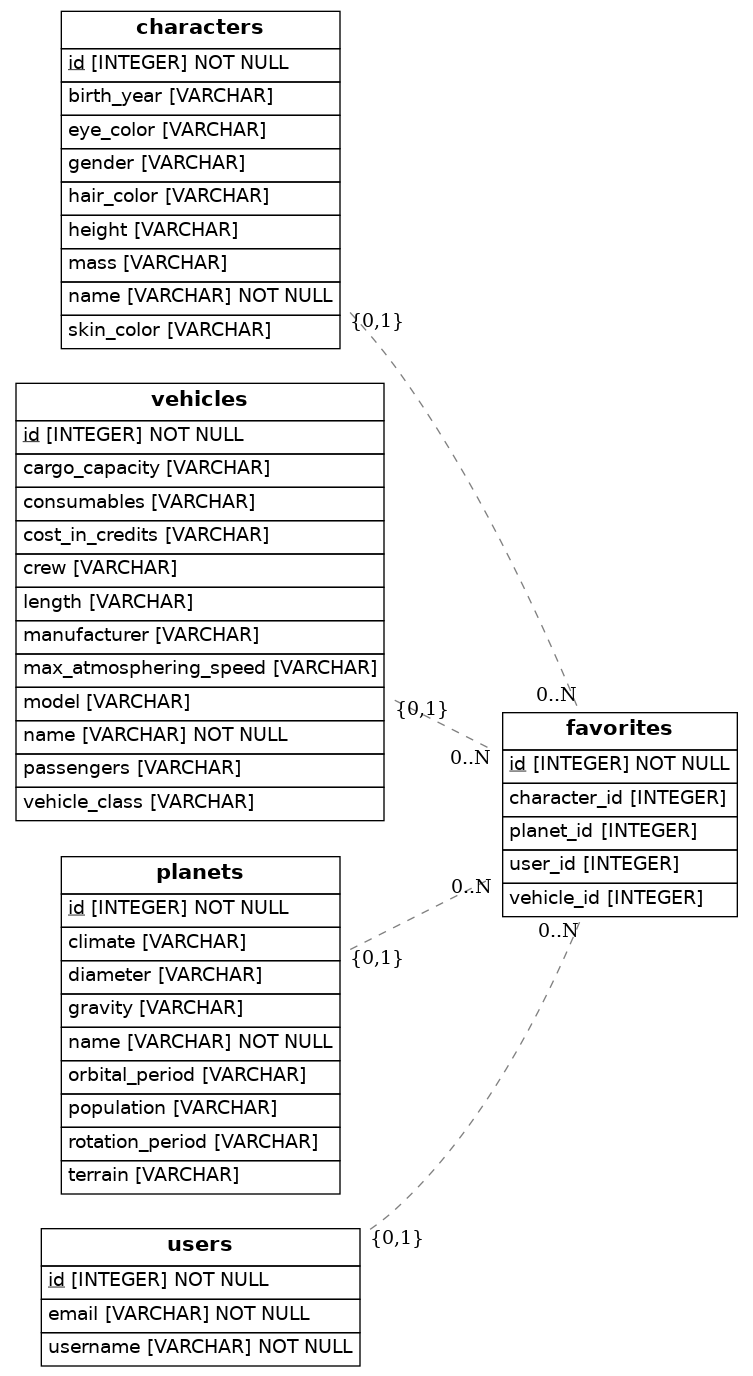
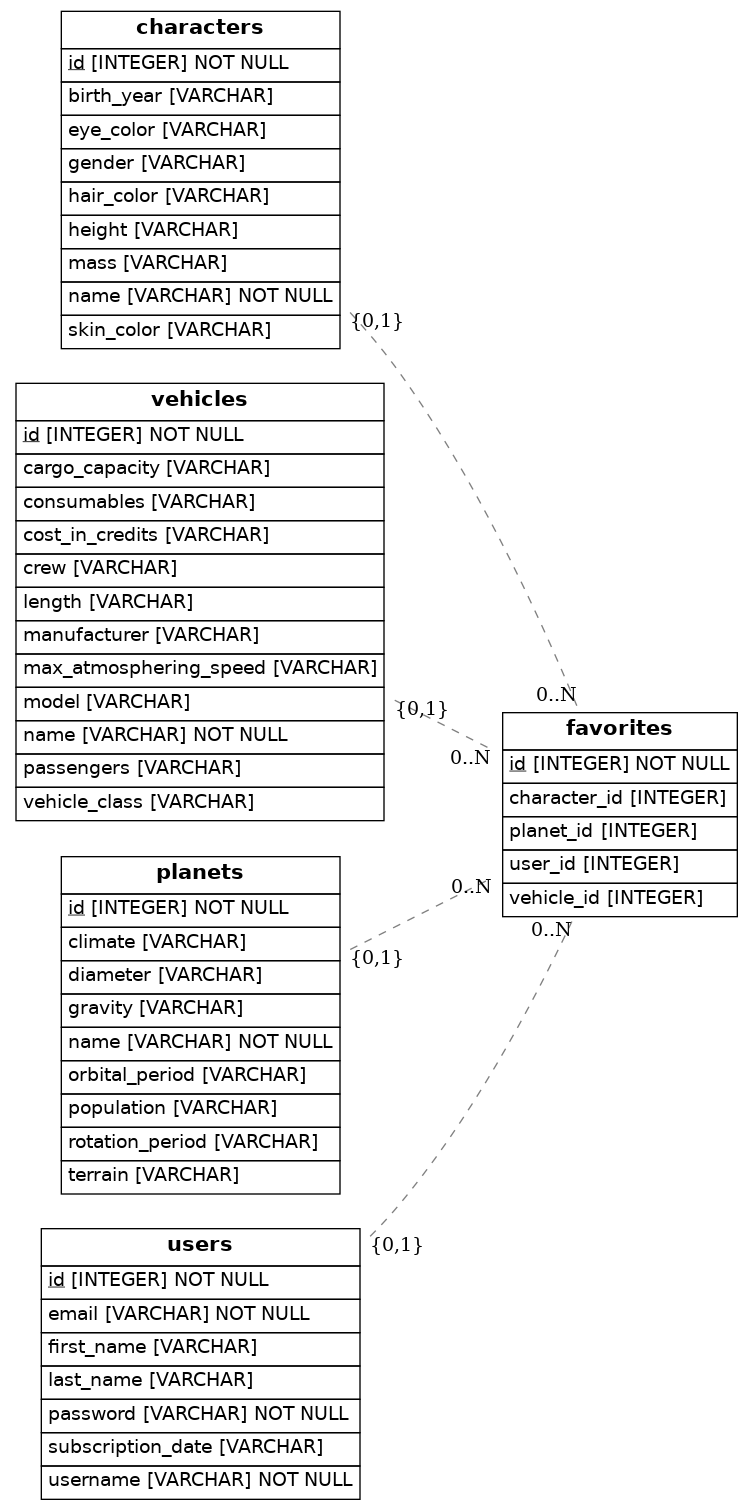
updating user

diff --git a/src/models.py b/src/models.py
@@ -7,6 +7,34 @@ from eralchemy2 import render_er
 
 Base = declarative_base()
 
+class User(Base):
+    __tablename__ = 'users'
+    
+    id = Column(Integer, primary_key=True)
+    username = Column(String, unique=True, nullable=False)
+    email = Column(String, unique=True, nullable=False)
+    password = Column(String, nullable=False)
+    first_name = Column(String)
+    last_name = Column(String)
+    subscription_date = Column(String) 
+
+    favorites = relationship("Favorite", back_populates="user")
+
+class Favorite(Base):
+    __tablename__ = 'favorites'
+
+    id = Column(Integer, primary_key=True)
+    user_id = Column(Integer, ForeignKey('users.id'))
+    character_id = Column(Integer, ForeignKey('characters.id'))
+    vehicle_id = Column(Integer, ForeignKey('vehicles.id'))
+    planet_id = Column(Integer, ForeignKey('planets.id'))
+
+    user = relationship("User", back_populates="favorites")
+    character = relationship("Character")
+    vehicle = relationship("Vehicle")
+    planet = relationship("Planet")
+
+
 class Character(Base):
     __tablename__ = 'characters'
     
@@ -55,31 +83,6 @@ class Planet(Base):
     population = Column(String)
 
     favorites = relationship("Favorite", back_populates="planet")
-
-
-class User(Base):
-    __tablename__ = 'users'
-    
-    id = Column(Integer, primary_key=True)
-    username = Column(String, unique=True, nullable=False)
-    email = Column(String, unique=True, nullable=False)
-
-    favorites = relationship("Favorite", back_populates="user")
-
-class Favorite(Base):
-    __tablename__ = 'favorites'
-
-    id = Column(Integer, primary_key=True)
-    user_id = Column(Integer, ForeignKey('users.id'))
-    character_id = Column(Integer, ForeignKey('characters.id'))
-    vehicle_id = Column(Integer, ForeignKey('vehicles.id'))
-    planet_id = Column(Integer, ForeignKey('planets.id'))
-
-    user = relationship("User", back_populates="favorites")
-    character = relationship("Character")
-    vehicle = relationship("Vehicle")
-    planet = relationship("Planet")
-
 
 ## Draw from SQLAlchemy base
 render_er(Base, 'diagram.png')
